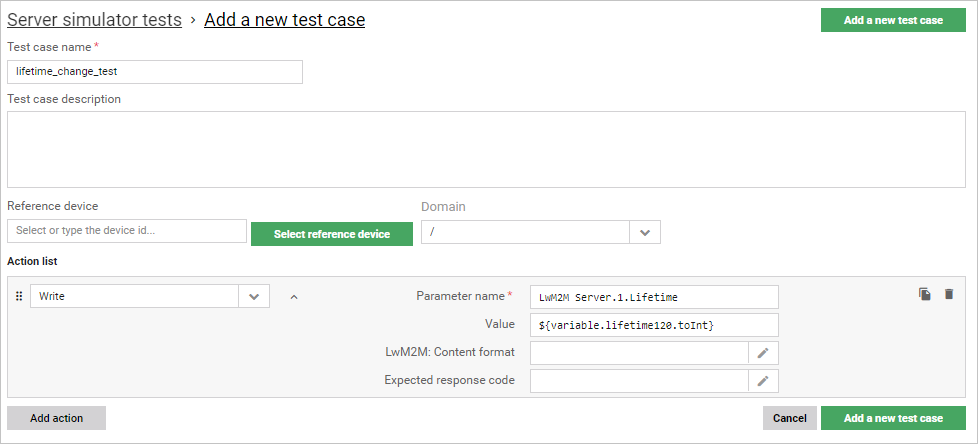
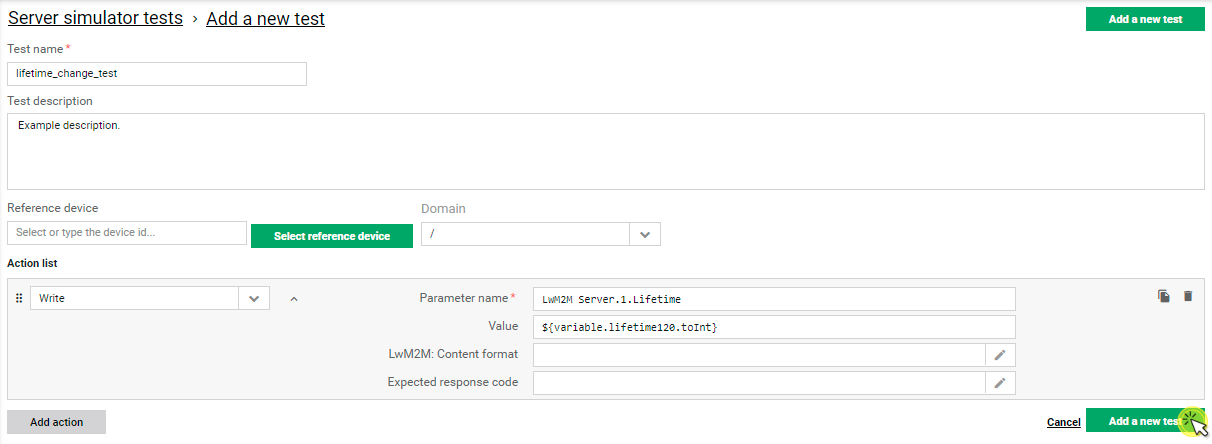
Data model and variables - updated

Changed region(s): [[0.0, 0.0878, 1.0, 1.0], [0.8282, 0.0, 1.0, 0.0878], [0.0, 0.0, 0.3681, 0.0878]]

diff --git a/docs/Interoperability_tests_guide/Data_model_and_variables.md b/docs/Interoperability_tests_guide/Data_model_and_variables.md
@@ -6,54 +6,60 @@ Coiote DM gives you the possibility to view and perform actions on the data mode
 
 ![The Objects panel](images/image062.png "The Objects panel")
 
-1.	**Search** - use it to find a particular object. To find the object, type its name.
-2.	If checked, the changes you make to device objects will be applied immediately. Otherwise, you will have to wait for the device to trigger action execution or use the **Execute tasks** button (for devices in non-queue mode).
-      !!! note
-          The **Apply immediately** option is only available for devices in non-queue mode.
-3.	Use this button to add a new LwM2M object definition.
-4.	Division into objects.
-5.	The **info** icon - click it to see the object description.
-6.	Managing instances:
-![Instances](images/image063.png "Instances"){:style="float: left;margin-right: 1177px;margin-top: 17px;"}
-     - [A] - Use it to select another instance of an object if the object has instances.
-     - [B] - Use it to add a new instance if an object allows it.
-     - [C] - Use it to select another instance or remove it.
-7.	Search - use it to find a particular resource. To find the resource, type its name.
-8.	Use it to refresh data, track values (send an Observe task) and add additional attributes to a selected instance.
-9.	Use it to refresh data, track values (send an Observe task) and add additional attributes to a selected object.
-10.	The table with resources of an object instance.
+0. **Search** - use it to find a particular object. To find the object, type its name.
+0. If checked, the changes you make to device objects will be applied immediately. Otherwise, you will have to wait for the device to trigger action execution or use the **Execute tasks** button (for devices in non-queue mode).
+
+    !!! note
+        The **Apply immediately** option is only available for devices in non-queue mode.
+
+0. Use this button to add a new LwM2M object definition.
+0. Division into objects.
+0. The **info** icon - click it to see the object description.
+0. Managing instances:
+    - [A] - Use it to select another instance of an object if the object has instances.
+    - [B] - Use it to add a new instance if an object allows it.
+    - [C] - Use it to select another instance or remove it.
+     ![Instances](images/image063.png "Instances"){:style="float: left;margin-right: 817px;margin-top: 17px;"}
+0. Search - use it to find a particular resource. To find the resource, type its name.
+0. Use it to refresh data, track values (send an Observe task) and add additional attributes to a selected instance.
+0. Use it to refresh data, track values (send an Observe task) and add additional attributes to a selected object.
+0. The table with resources of an object instance.
 
     !!! note
         The icon displaying the status of execution is available after clicking on one of the action buttons located in the **Actions** column. If you click it, you will see additional information about execution.
+        ![Execution status icon](images/image064.png "Execution status icon"){:style="float: left;margin-right: 1077px;margin-top: 17px;margin-bottom: 17px"}
 
-    ![Execution status icon](images/image064.png "Execution status icon"){:style="float: left;margin-right: 1177px;margin-top: 17px;"}
-      Execution status icon
-
-11.	Use it to refresh the resource.
-12.	Value tracking - use it to send an Observe task to the device and configure monitoring to collect data.
-13.	Attributes - use it to edit resource attributes or add new ones.
-14.	Use it to edit a value of a resource.
-15.	Execute - use it to send an Execute task to the device. Click the icon next to the button to add additional parameters.
+0.	Use it to refresh the resource.
+0.	Value tracking - use it to send an Observe task to the device and configure monitoring to collect data.
+0.	Attributes - use it to edit resource attributes or add new ones.
+0.	Use it to edit a value of a resource.
+0.	Execute - use it to send an Execute task to the device. Click the icon next to the button to add additional parameters.
 
 ##	Managing device variables
 
 Use the **Variables** panel to add custom variables onto your device for the purpose of protocol tests and view the existing variables that the device has inherited.
 To enter the **Variables** panel, go to **Device Management Center** by clicking on a selected device name and choose the **Variables** tab.
 
-![Variables panel](images/image065.png "The variables panel")
+!!! important
+    If the **Variables** tab is not visible in your **Device Management Center**, click the **Configure visible tabs** icon, drag and drop the **Variables** tab into the **Selected tabs** column, and click **Confirm**.
+    ![Variables panel](images/variables_tab_config.gif "The variables panel"){:style="float: left;margin-right: 177px;margin-top: 17px;margin-bottom: 17px"}
 
 1.	The **Custom device variables** list shows the variables that belong to this particular device.
     - To add a variable, click on **Add**, provide its name and value, and click **Save**. Note that every custom variable that you add will have the `VARIABLE_` prefix.
     - To delete a previously added variable, click the **Trash bin** icon and click **Save**.
-2.	The **Inherited variables** list shows only the variables that the device inherits from the groups of devices that is belongs to. The list is view-only. To add a variable to this list, go to Device Groups and, in the Profiles panel, add an entry with the name beginning with `VARIABLE_`.
+![Variables panel](images/image065.png "The variables panel")
+2.	The **Inherited variables** list shows only the variables that the device inherits from the groups of devices that it belongs to. The list is view-only. To add a variable to this list, go to Device Groups and, in the Profiles panel, add an entry with the name beginning with `VARIABLE_`.
+3. To search for variables in the table, use the search field above it.
+4. To export existing variables, click the **Export** button. A `.variables` file will be downloaded onto your local drive.
+5. To import variables, click the **Import** button. From your local drive, select a `.variables` file with variables. Any new variables contained in the file will be imported into the **Custom device variables** table
 
-### Using variables in test case actions
+### Using variables in test actions
 
-To use device variables, enter the expression context by typing ``${variable.<variableName>}`` while defining a test case action. Remember that each variable is treated as a string, therefore, to use it as a different data type, you will have to cast it to the appropriate type. 
+To use device variables, enter the expression context by typing ``${variable.<variableName>}`` while defining a test action. Remember that each variable is treated as a string, therefore, to use it as a different data type, you will have to cast it to the appropriate type. 
 
 #### Using variables - example
 
-Learn how to use device variables in **Interoperability tests** in a few steps:
+Learn how to use device variables in **Device tests** in a few steps:
 
 Use case: Testing the **WRITE** action on the `LwM2M Server.1.Lifetime` resource.  
 
@@ -71,19 +77,19 @@ Use case: Testing the **WRITE** action on the `LwM2M Server.1.Lifetime` resource
          - Value: `120`.
      - Click **Save**.
 
-2. Create a test case and include the new variable in the appropriate format:
-     - To add a new test case, follow the steps in [Creating your first test case](../Getting_started/#create-your-first-test-case) section, but including the adjustments below:
+2. Create a test and include the new variable in the appropriate format:
+     - To add a new test, follow the steps in [Creating your first test](../Getting_started/#create-your-first-test-case) section, but including the adjustments below:
          - For example purposes, pick only the **Write** action.
          - In the **Parameter name** field, type `LwM2M Server.1.Lifetime` (note that the path may vary slightly depending on your device data model).
-![Using a variable in a test case](images/image107.png "Using a variable in a test case")
+![Using a variable in a test](images/image107.png "Using a variable in a test case")
          - In the **Value** field, type `${variable.lifetime120.toInt}`.
 
             !!! tip
                 By default, the variable value is rendered as a `string` data type. To cast it to the `integer` data type, `.toInt` suffix is added to the created expression, as seen above.
 
-3. Run the created test case and check if the variable works correctly:
-     -  To run the test case, follow the steps in [Running the test case on device](../Getting_started/#run-the-test-case-on-device) using the test case created in the previous step.
-     -  After the test case is finished, check if the *Lifetime* resource value has changed on the device:
+3. Run the created test and check if the variable works correctly:
+     -  To run the test, follow the steps in [Running the test on device](../Getting_started/#run-the-test-case-on-device) using the test created in the previous step.
+     -  After the test is finished, check if the *Lifetime* resource value has changed on the device:
         - Go to the **Objects** panel of your device and under the **LwM2M Server** object, look for the **Lifetime** resource value:
 ![Checking device data model](images/image106.png "Checking device data model")
-        - If the value has changed accordingly, the variable can be now reused and populated to any other test cases.    
+        - If the value has changed accordingly, the variable can be now reused and populated to any other tests.    
